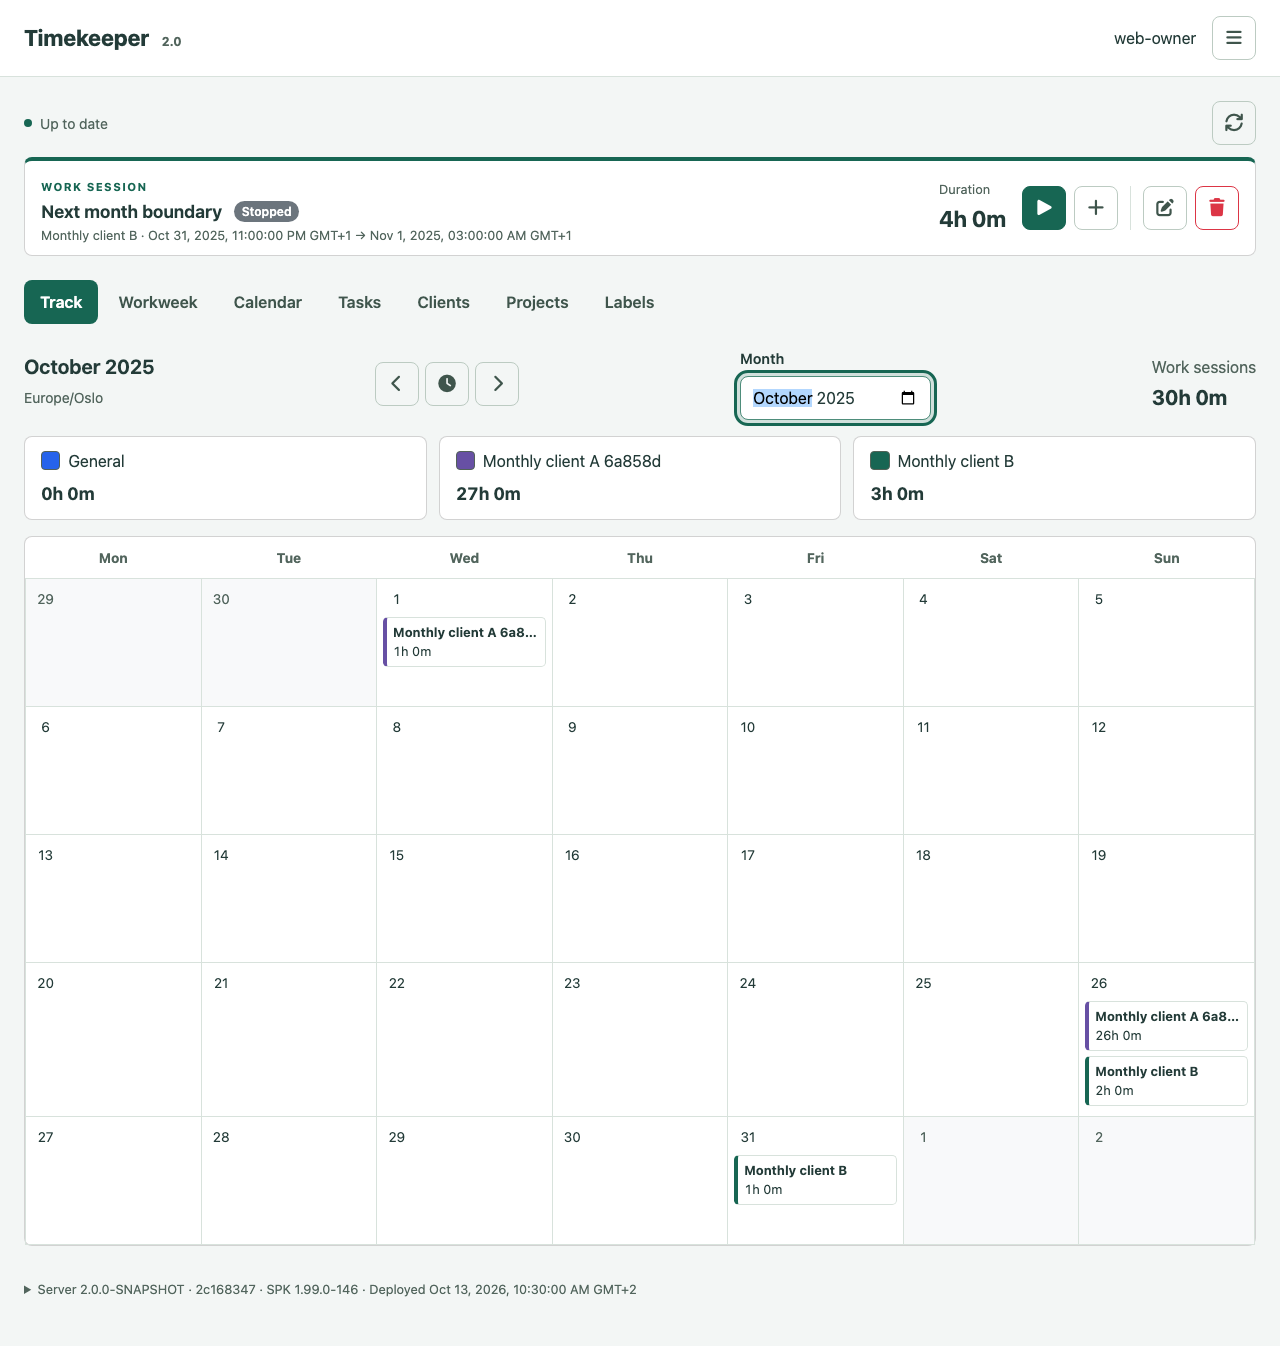
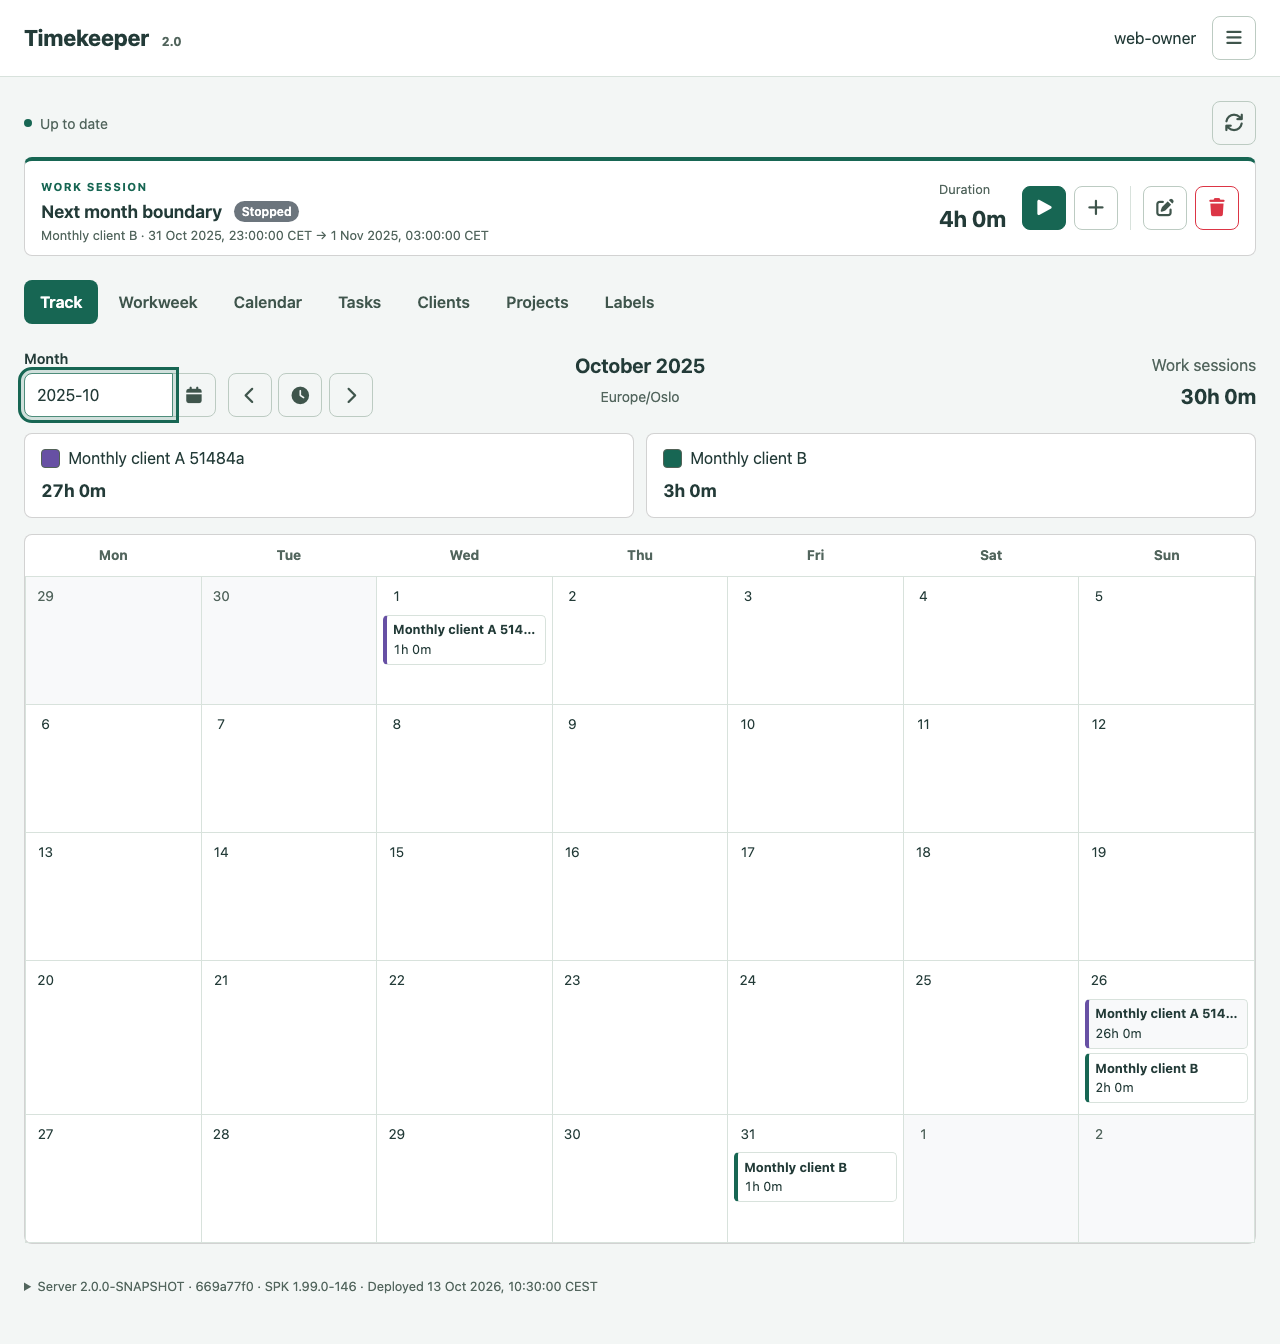
Refresh Track guide screenshots and package the picker illustration

diff --git a/server/web/src/index.html b/server/web/src/index.html
@@ -65,7 +65,7 @@
       <section id="track-panel" aria-labelledby="track-title">
         <div class="toolbar track-toolbar">
           <div class="track-controls">
-            <div class="track-month-field"><label class="form-label" for="track-month">Month</label><div class="input-group"><input class="form-control" id="track-month" type="text" inputmode="numeric" pattern="[0-9]{4}-(0[1-9]|1[0-2])" maxlength="7" placeholder="YYYY-MM" required><button type="button" id="track-month-choose" class="btn btn-outline-secondary" popovertarget="track-month-picker" aria-haspopup="dialog" aria-expanded="false">Choose month and year</button></div></div>
+            <div class="track-month-field"><label class="form-label" for="track-month">Month</label><div class="input-group"><input class="form-control" id="track-month" type="text" pattern="[0-9]{4}-(0[1-9]|1[0-2])" maxlength="7" placeholder="YYYY-MM" required><button type="button" id="track-month-choose" class="btn btn-outline-secondary" popovertarget="track-month-picker" aria-haspopup="dialog" aria-expanded="false">Choose month and year</button></div></div>
             <div class="calendar-navigation"><button class="btn btn-outline-secondary" id="track-previous">Previous month</button><button class="btn btn-outline-secondary" id="track-today">Current month</button><button class="btn btn-outline-secondary" id="track-next">Next month</button></div>
           </div>
           <div class="track-heading"><h2 id="track-title">Your month</h2><p id="track-zone" class="hint"></p></div>

diff --git a/server/scripts/package_server.py b/server/scripts/package_server.py
@@ -69,6 +69,7 @@ def package(output, tag, commit):
         'docs/assets/screenshots/bootstrap-work-session-narrow.png': 'images/work-session-narrow.png',
         'docs/assets/screenshots/track-month-desktop.png': 'images/track-month-desktop.png',
         'docs/assets/screenshots/track-month-narrow.png': 'images/track-month-narrow.png',
+        'docs/assets/screenshots/track-month-picker.png': 'images/track-month-picker.png',
         'docs/assets/screenshots/toggl-import-review.png': 'images/toggl-import-review.png',
         'docs/assets/screenshots/toggl-import-history-narrow.png': 'images/toggl-import-history-narrow.png',
     }

diff --git a/docs/development/WEB-CLIENT.md b/docs/development/WEB-CLIENT.md
@@ -69,6 +69,8 @@ Los Angeles time while the account uses Oslo time.
 
 ![Track month view on a narrow screen](../assets/screenshots/track-month-narrow.png)
 
+![Track month and year picker](../assets/screenshots/track-month-picker.png)
+
 ## Design baseline
 
 Bootstrap 5.3.8 supplies the shared buttons, forms, navigation, cards and tables.
